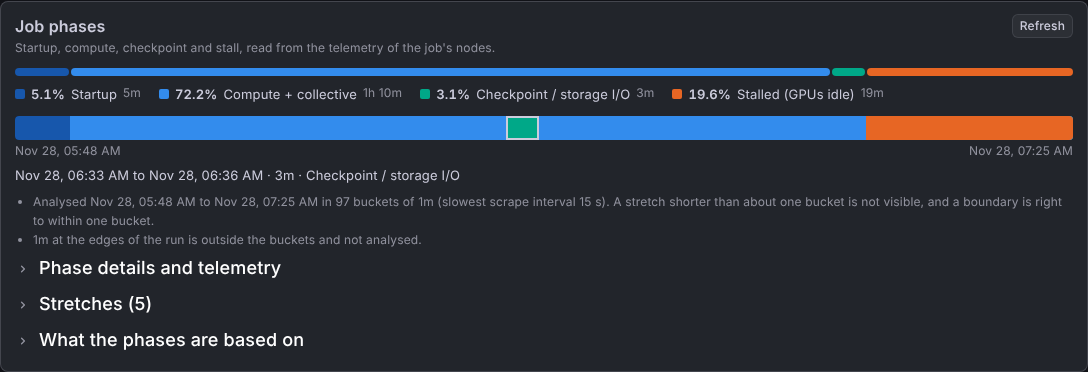
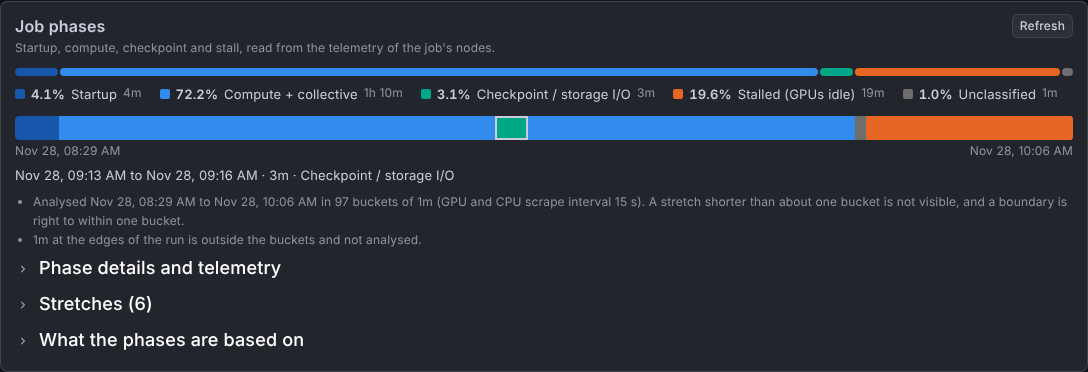
docs(job-dashboard): bring the job phases documents in line with the third round
Replace the screenshots, state the measured request counts and the
timings of the 2,000-node run again, record the third round of checks
against Prometheus and VictoriaMetrics and the mutation results in the
design record, and update the known weaknesses: a long checkpoint with
idle GPUs and CPUs reads as stalled, the two limits of the CPU test,
and the blur of a slow storage counter.

Claude-Session: https://claude.ai/code/session_012me448yAksxRtbQf2QUjB3

diff --git a/docs/superpowers/specs/2026-11-28-job-phase-segmentation-design.md b/docs/superpowers/specs/2026-11-28-job-phase-segmentation-design.md
@@ -603,6 +603,51 @@ The issue makes the overlay and the export optional.
     the bucket length is rounded up to a usual step and the shortest of
     those is 60 s.
 
+- **Third round.** A second review ran new jobs against both backends and
+  found three defects that the fixes of the second round had made, and
+  five smaller ones. The decisions above record each fix (decision 4: CPU
+  values outside the range, the rate window of slow counters; decision 5:
+  the idle run and its writes, the busiest node; decision 8a: marks and
+  table pages). After the fixes, the reviewer's generator (40 jobs; the
+  900-node job was left out) was run again on both backends:
+  - 37 jobs are computed on both backends, and 36 of them have the same
+    label in every bucket. The other three get no result on either backend
+    (too short, shared nodes, more than 2,000 nodes). The 15 jobs that agreed before still agree. The
+    exception is the job with a storage exporter scraped every 7 minutes
+    (9 of 124 buckets), the declared difference for an interval that the
+    probe cannot measure.
+  - Late node exporter: the stall of 29 minutes is reported with one node
+    answering 4 s late and 3 s late, on both backends, with the note "1 of
+    148 values was not usable" where a value was left out.
+  - Hangs with writes (an error log of 2 MiB/s through 40 minutes; another
+    job writing 50 MiB/s for 25 of 40 minutes; a daemon that always
+    writes): 39 minutes stalled on both backends. As running jobs, the
+    first two give "stalled now, idle for 40m".
+  - Storage exporter scraped every 300 s: one-minute buckets and the same
+    stretches as the same job with a 15 s exporter (startup 4 minutes, two
+    checkpoints of 4 minutes, a stall of 11 minutes). A 16-minute job with
+    a 60 s storage exporter is analysed in 15 buckets.
+  - The two CPU limits of decision 5 are as stated: work on 2 of 256 cores
+    and one thread on 64 cores read as stalled; a hang at 1.2% CPU after
+    compute at 3% is unclassified.
+  - Node names with a dot, parentheses, a pipe, a plus, brackets and a
+    dollar sign give the same labels on both backends (`main` fixed the
+    shared node matcher in #148, which is merged into this branch).
+  - In Grafana 13.3.1 with headless Chromium, at page widths 1500, 768 and
+    400: the five-day job shows 19 checkpoint marks of 3 pixels, inside
+    the strip, within 1.4 pixels of their blocks, which are 1.5, 0.95 and
+    0.45 pixels wide; the job with 1,439 stretches has 1,439 table rows on
+    15 pages, reached with the keyboard.
+  - Mutation testing: of the reviewer's 92 TypeScript mutants, 77 are
+    killed, 14 no longer apply because their code was rewritten, and one
+    survives and is equivalent (`bucket <= firstCompute`: the first compute
+    bucket never reaches that line). All 12 Go mutants are killed. For
+    the rewritten code, 58 further mutants were written (the idle run, the
+    busiest node, the write burst, unusable CPU values, rate windows and
+    their shift, split queries, marks, table pages); all 58 are killed.
+    The run also showed that one test had been deleted by mistake in this
+    round; it was restored.
+
 Not verified: real telemetry from a production cluster; Grafana 12.4; the
 Docker Compose E2E suite (`make test-integration` needs a Docker daemon);
 the sidecar tests (not touched, and their dependency download is refused in
@@ -618,10 +663,16 @@ the build environment).
   share nodes this removes the feature for exactly those jobs.
 - **Checkpoints to a network file system are invisible by default**
   (decision 8). The default write metric is local disks.
-- **A long checkpoint without a write series reads as a stall** when the
-  CPUs are idle during it, and CPU-only work below the CPU idle limit (one
-  thread on a large node) reads as a stall too. A hang that spins on the
-  CPUs is unclassified, not stalled.
+- **A long checkpoint with idle GPUs and idle CPUs reads as a stall**,
+  with or without a write series: a checkpoint of the stall time or longer
+  during which every GPU is idle and the busiest node's CPU load is under
+  the idle limit. Its stretch states the writes, and a running job gets the
+  "stalled now" warning. This is the price of never hiding a hang behind
+  writes (decision 5).
+- **CPU-only work below the CPU idle limit reads as a stall**, and **a hang
+  of a job that uses little CPU can stay unclassified** (decision 5: the
+  mean over the cores; the busiest core is not read). A hang that spins on
+  the CPUs is unclassified, not stalled.
 - **A cluster without a CPU series gets no stall at all**: idle GPUs stay
   unclassified with the reason "too little CPU telemetry".
 - **A hang that keeps GPU utilization above the idle threshold** is not
@@ -660,7 +711,13 @@ the build environment).
   cycle every time, so a GPU that is busy a third of the time can read as
   busy all the time.
 - **CPU, storage and network are node-wide**: another job on the node can
-  turn this job's GPU dip into a "checkpoint" or hide a stall.
+  turn this job's short GPU dip into a "checkpoint" with its writes, and
+  can keep a hang of this job out of "stalled" with its CPU load (the
+  stretch is then unclassified, "CPUs not idle"). Its writes can no longer
+  hide a stall.
+- **A slow storage counter blurs checkpoints in time** (decision 4): its
+  rate is read over a window of at least four of its scrape intervals
+  around each bucket.
 - **Server-side work grows with the job** (decision 6). There is no cap on
   GPUs x duration other than the node limit.
 - **The stall time counts across buckets in which a node did not report**,
@@ -678,19 +735,11 @@ the build environment).
 - **An interactive job that waits for its user reads as stalled**, as does
   a `sleep` after the work. The label says "Stalled (GPUs idle)" for that
   reason.
-- **Node names with regular-expression characters** (a dot in a fully
-  qualified name) make every phase query fail with a parse error on the
-  commit this branch starts from, and the section shows that error. The
-  cause is the plugin's shared node matcher (`buildInstanceMatcher`), which
-  escaped with a single backslash inside a double-quoted PromQL string.
-  `main` has fixed the matcher since (#148); the phase queries use the
-  shared matcher, so they take the fix with the merge. A node name with a
-  dot was not run against a backend after that merge.
 - **The dev stack shows no phases.** The generated dev metrics oscillate
-  without phases. On the commit this branch starts from they also carried
-  one CPU series per node, which the section reports as not usable; `main`
-  has changed that fixture since (#150), and the dev stack was not run
-  here after it.
+  without phases. When this branch started they also carried one CPU
+  series per node, which the section reports as not usable; `main` has
+  changed that fixture since (#150, merged into this branch), and the dev
+  stack was not run here after it.
 - **No E2E test in the repository** covers the section; the Playwright
   suite needs the Docker stack and dev data with phases.
 - Should a running job's result refresh on its own? Today it does not.
@@ -703,12 +752,11 @@ single lines placed away from the lines #147 changes, and the settings
 editor, the Go type and most tests are in files of their own. This change
 does not depend on #147.
 
-A test merge of this branch with `origin/main` (at `0fc296c`) and then
-with `origin/agent/optimistic-gates-11g2pm` (at `8b22b29`) has no conflict.
-The merged tree passes the type check, ESLint, all 1152 Jest tests, the Go
-tests and the complexity limits of `cccc.toml`, and it gave the same
-phases as this branch for four jobs on both metrics backends. Two things
-were needed for that beyond avoiding textual conflicts:
+`main` (at `0fc296c`) is merged into this branch. A test merge with
+`origin/agent/optimistic-gates-11g2pm` (at `8b22b29`) has no conflict, and
+the merged tree passes the type check, ESLint, all 1201 Jest tests, the Go
+tests and the complexity limits of `cccc.toml`. Two things were needed for
+that beyond avoiding textual conflicts:
 
 - The tests of how the page wires the section live in
   `JobDashboardPage.test.tsx`, where each section of the page is a stub. A

diff --git a/docs/job-phases.md b/docs/job-phases.md
@@ -10,16 +10,16 @@ The phases are labels for what the telemetry of the job's nodes showed. They are
 
 ## What the section shows
 
-- **Breakdown bar and legend**: the share of the analysed window per label, for example `5.1% Startup, 72.2% Compute + collective, 3.1% Checkpoint / storage I/O, 19.6% Stalled (GPUs idle)`. The shares are printed with one decimal and add up to 100.0%. Unclassified time and time without GPU data have their own shares.
+- **Breakdown bar and legend**: the share of the analysed window per label, for example `4.1% Startup, 72.2% Compute + collective, 3.1% Checkpoint / storage I/O, 19.6% Stalled (GPUs idle), 1.0% Unclassified`. The shares are printed with one decimal and add up to 100.0%. Unclassified time and time without GPU data have their own shares.
 - **Timeline**: the stretches in time order. The strip always spans exactly the analysed window, and every block starts and ends at the true times of its stretches. Hover a block to read its window, length and label. Click it to zoom the metric panels to it (a metric must be pinned, so that a panel exists).
   - Neighbouring stretches that are each shorter than 1/360 of the window (two pixels on a strip of 700 pixels) cannot be drawn one by one: such a run is drawn as one block whose bands show the shares of its labels from bottom to top, and a note under the strip says so.
-  - A block in true proportion can be too narrow to see: a ten-minute checkpoint of a five-day job is half a pixel wide on a narrow page. Every block that is narrower than 1/120 of the window, and every band that is lower than a sixth of the bar, gets a **mark** above the bar, in a lane of its label. A mark is 3 pixels wide whatever the length of the stretch: it shows a place, not a length, and a note says so. Every label of the legend is therefore visible on or above the bar at every width.
+  - A block in true proportion can be too narrow to see: a ten-minute checkpoint of a five-day job is half a pixel wide on a narrow page. Every block that is narrower than 1/120 of the window, and every band that is lower than a sixth of the bar, gets a **mark** above the bar, in a lane of its label. A mark is 3 pixels wide whatever the length of the stretch: it shows a place, not a length, and a note says so. Every label of the legend is therefore visible on or above the bar; this was measured at page widths of 1500, 768 and 400 pixels.
 - **Notes**: the analysed window and its resolution, and everything that limits the result for this job: missing signals, nodes without telemetry, a node whose GPUs were idle while other nodes worked.
 - **Phase details and telemetry**: per label the time, the share, the number of stretches and the typical telemetry (medians), so that you can check a label against the numbers. GPU power is printed without a unit, because the power metric is configurable and only its ratio to the job's working level is used.
 - **Stretches**: every stretch as a table row, with **Zoom** and, when [Annotation Labeling](./annotation-labeling.md) is enabled, **Label…**. The table has pages of 100 rows (**Previous 100**, **Next 100**), so a job with more stretches still has a row for each. The table is the keyboard alternative to the timeline. A stretch without GPU data has no **Label…**. A stretch that lies in an idle run of the stall time also states what was seen in the run: how long every GPU was idle, the CPU load of the busiest node and the storage writes.
+- **What the phases are based on**: the metrics that were read, how much of the window each covers, and the thresholds of this job.
 
 The tables scroll sideways inside the section when the page is narrower than a table.
-- **What the phases are based on**: the metrics that were read, how much of the window each covers, and the thresholds of this job.
 
 For a job that Slurm records as RUNNING, a warning appears when the job is stalled now. A job without an end time in another state (suspended, pending again after a requeue, completing) gets no warning; a note names the state.
 
@@ -162,7 +162,7 @@ The scrape interval of a counter is measured in the last ten minutes of the run,
 
 ### Edges
 
-Bucket boundaries are multiples of the bucket length, so less than one bucket at each end of the run is outside the buckets. The section states how much. On VictoriaMetrics a rate reaches back one scrape interval before its bucket, so a checkpoint can be reported up to one bucket longer.
+Bucket boundaries are multiples of the bucket length, so less than one bucket at each end of the run is outside the buckets. The section states how much. On VictoriaMetrics a rate reaches back one scrape interval before its bucket, so a checkpoint can be reported up to one bucket longer. The rate of a slow storage or network counter is read over a window that is longer than a bucket, so for the first and the last buckets of the run it includes up to half a window of what the nodes wrote before the job started or after it ended.
 
 ## When there is no result
 
@@ -202,9 +202,9 @@ A query names every node of the job, so it grows with the job. The plugin keeps 
 | 300 | 14 | 10,908 characters |
 | 700 | 28 | 11,986 characters |
 | 1,500 | 64 | 11,230 characters |
-| 2,000 | 80 | 10,212 characters |
+| 2,000 | 80 | 9,712 characters (names of 17 characters), 10,212 (18 characters) |
 
-The 2,000-node job (every node exporting 1 GPU and 2 CPUs at a 30 s scrape interval, a run of 73 minutes, both backends on the same machine as the test) took 1.5 to 2.2 s on Prometheus and 1.2 to 1.3 s on VictoriaMetrics for all 80 requests, in two runs. Jobs of more than 2,000 nodes are not analysed. No larger job and no other backend was run.
+A 2,000-node job in which every node exports telemetry (1 GPU and 2 CPUs per node at a 30 s scrape interval, a run of 73 minutes, both backends on the same machine as the test) took 1.3 to 2.7 s on Prometheus and 0.8 to 1.5 s on VictoriaMetrics for all 80 requests, in three runs; the first run after the start of a backend was the slowest. Jobs of more than 2,000 nodes are not analysed. No larger job and no other backend was run.
 
 The result is computed once when the page opens, and again on **Refresh**.
 
